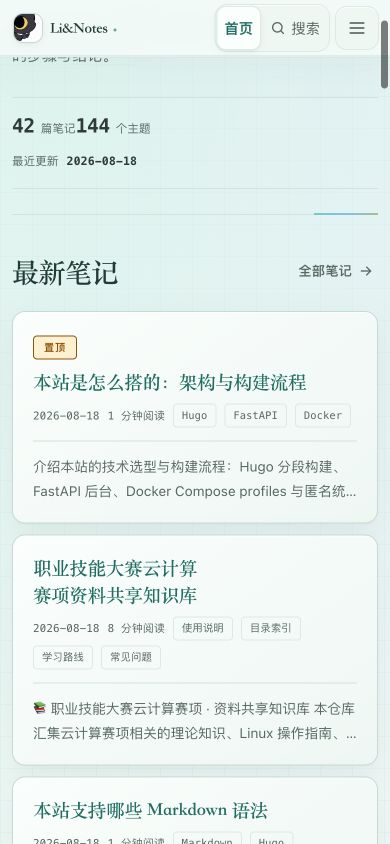
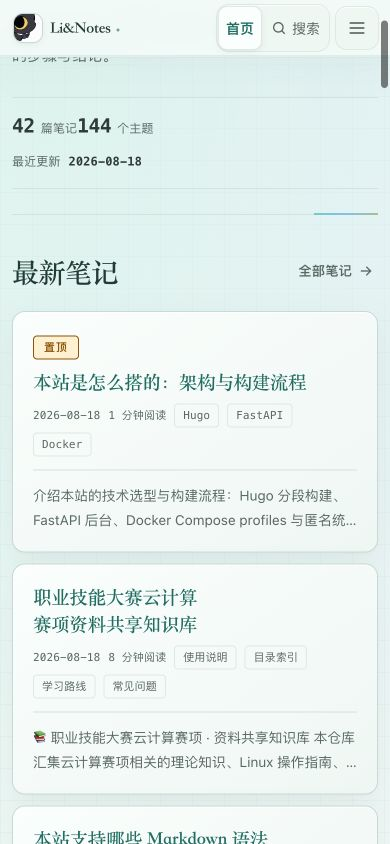
style: 统一页眉与胶囊字号层级

diff --git a/themes/blog-theme/static/css/style.css b/themes/blog-theme/static/css/style.css
@@ -671,7 +671,7 @@ input:focus, select:focus, textarea:focus {
   border-radius: 999px;
   background: var(--liblog-surface);
   color: var(--liblog-fg);
-  font-size: 0.9rem;
+  font-size: 0.875rem;
   box-shadow: var(--liblog-shadow-sm);
 }
 .tag-chip:hover {
@@ -2643,7 +2643,7 @@ body {
   border-top: 1px solid var(--liblog-rule);
   border-bottom: 1px solid var(--liblog-rule);
   font-family: var(--liblog-font-label);
-  font-size: 0.72rem;
+  font-size: 0.75rem;
   letter-spacing: 0.01em;
 }
 .home-fact {
@@ -2767,7 +2767,7 @@ body {
 .post-card .meta > span:not(.meta-sep),
 .post-card .meta > span:not(.meta-sep) > time {
   font-family: var(--liblog-font-label);
-  font-size: 0.68rem;
+  font-size: 0.6875rem;
   letter-spacing: 0.01em;
 }
 .post-card .tag,
@@ -2775,7 +2775,7 @@ body {
   border-radius: 4px;
   background: transparent;
   font-family: var(--liblog-font-label);
-  font-size: 0.65rem;
+  font-size: 0.6875rem;
   letter-spacing: 0.01em;
 }
 .post-card .post-summary {
@@ -2791,7 +2791,7 @@ body {
 .badge-pinned {
   border-radius: 4px;
   font-family: var(--liblog-font-label);
-  font-size: 0.64rem;
+  font-size: 0.6875rem;
   letter-spacing: 0.08em;
 }
 .post-card:has(> .post-cover-link) {
@@ -3364,7 +3364,7 @@ body {
 .brand-name-text {
   color: var(--liblog-brand-fg);
   font-family: var(--liblog-font-display);
-  font-size: 1.02rem;
+  font-size: 1rem;
   font-weight: 600;
   letter-spacing: -0.025em;
   line-height: 1;
@@ -3402,7 +3402,7 @@ body {
   padding-inline: 13px;
   border: 1px solid transparent;
   border-radius: 9px;
-  font-size: 0.82rem;
+  font-size: 0.875rem;
   font-weight: 500;
   letter-spacing: 0.01em;
 }
@@ -3461,7 +3461,7 @@ body {
     border-radius: 10px;
   }
   .brand-name-text {
-    font-size: 0.95rem;
+    font-size: 1rem;
   }
   .mobile-nav-primary {
     gap: 1px;
@@ -3477,7 +3477,7 @@ body {
     padding-inline: 9px;
     border: 1px solid transparent;
     border-radius: 9px;
-    font-size: 0.9rem;
+    font-size: 0.875rem;
   }
   .mobile-nav-link:hover,
   .mobile-nav-link:focus-visible {
@@ -3516,6 +3516,7 @@ body {
   .site-menu-item {
     border: 1px solid transparent;
     border-radius: 8px;
+    font-size: 0.875rem;
   }
   .site-menu-item[aria-current="page"] {
     border-color: var(--liblog-border);

diff --git a/design-system/notes/MASTER.md b/design-system/notes/MASTER.md
@@ -94,7 +94,7 @@ HUGO_BIN=/path/to/hugo-0.165.0 python scripts/build.py --full
 - 笔记、标签与归档页共用页面标题层级：来源眉题、唯一 H1、简述与统计；归档与标签按内容关系组织，不做装饰性时间线。
 - 文章页只保留模板生成的唯一 H1；桌面端目录固定在正文右侧，视口 ≤1200px 时折叠为原生可键盘操作的 `details`；正文列始终在视口中心。
 - 移动端主导航固定保留首页与搜索，“更多”菜单提供笔记、归档和内容索引入口。
-- 页眉桌面高度 64px、移动端 56px；顶部与页面底色完全融合，品牌、导航与搜索使用轻量分组表面；滚动超过 8px 后才启用同源半透明雾化层与极淡边界阴影，不改变高度。实现只消费 `--liblog-header-*` 令牌，视觉证据与回归步骤见 [HEADER-VISUAL.md](HEADER-VISUAL.md)。
+- 页眉桌面高度 64px、移动端 56px；品牌字号 16px、导航/搜索 14px，顶部与页面底色完全融合；滚动超过 8px 后才启用同源半透明雾化层与极淡边界阴影，不改变高度。实现只消费 `--liblog-header-*` 令牌，视觉证据与回归步骤见 [HEADER-VISUAL.md](HEADER-VISUAL.md)。
 
 ## 9. 索引与小程序自动化
 
@@ -117,6 +117,7 @@ HUGO_BIN=/path/to/hugo-0.165.0 python scripts/build.py --full
 - 登录页在 ≤820px 将页脚移出绝对定位，≤480px 隐藏装饰侧栏并显示紧凑品牌行，保证主按钮不被覆盖。
 - 公开站页脚在 ≤480px 保持三行居中：版权一行，ICP 备案与公安备案各一行且单条不换行；页脚高度约 73px，返回顶部按钮接近页脚时自动上移避让。
 - 标签索引胶囊视觉高度 36px、间距 10px；通过 `::after` 扩展四边各 4px，保持 44px 点击热区且不重叠。
+- 胶囊与元数据字号统一为整数层级：标签主字 14px、计数 12px、卡片元数据 11px。
 - 验收矩阵：公开站 320/360/390/768/1024/1280/1440；后台 320/360/390/768/1024/1280/1281/1366/1440。
 
 ## 11. 视觉质感层

diff --git a/design-system/notes/BRAND.md b/design-system/notes/BRAND.md
@@ -42,6 +42,7 @@
 - 卡片只使用轻阴影、内高光和细边框，不做夸张玻璃拟态；强调色只出现在编号、标签、焦点与关键操作。
 - 页眉与页面底色、网格连续：顶部不形成独立色带，滚动后才出现同源轻雾化层；完整状态与截图见 [页眉背景调和视觉记录](HEADER-VISUAL.md)。
 - 页眉与交互胶囊保持紧凑密度：桌面 64px、移动端 56px；标签胶囊以 36px 视觉高度承载 44px 点击热区。
+- 字号使用 16 / 14 / 12 / 11px 整数层级：品牌 16、导航与标签 14、计数 12、元数据 11。
 - 网页与小程序共享同一视觉语法：网页是展开的档案页，小程序是随身速查卡；两端不互相镜像页面结构。
 - 禁止远程字体、霓虹渐变、紫色/粉色 AI 风格与装饰性时间线。
 

diff --git a/design-system/notes/HEADER-VISUAL.md b/design-system/notes/HEADER-VISUAL.md
@@ -23,6 +23,7 @@
 
 - 桌面内容高度 64px。
 - ≤768px 内容高度 56px；移动导航外框 48px。
+- 品牌字标 16px；桌面/移动导航和搜索文字 14px；标签索引主字 14px、计数 12px。
 - 顶部与滚动状态高度不变。
 
 令牌契约：
@@ -61,6 +62,7 @@
 - 两种模式滚动后均使用 `blur(18px)`，页眉高度保持不变。
 - 320/390px 浅色页面宽度等于视口，无页面级横向滚动，页眉高度稳定。
 - 320–768px 页眉控件最小可点击高度保持 44px；769px 起切换为桌面导航。
+- 320/390/1440px 实测字号均为整数像素，无 `13.12px`、`14.4px`、`15.2px` 等碎值。
 - 186 项容器测试通过（1 项环境性跳过），硬编码与对比度审计、Hugo 全量构建通过。
 
 ## 5. 禁止项
